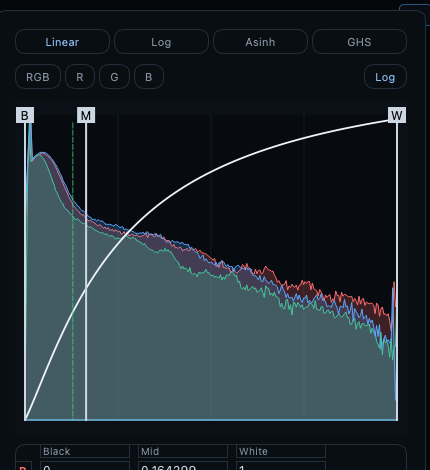
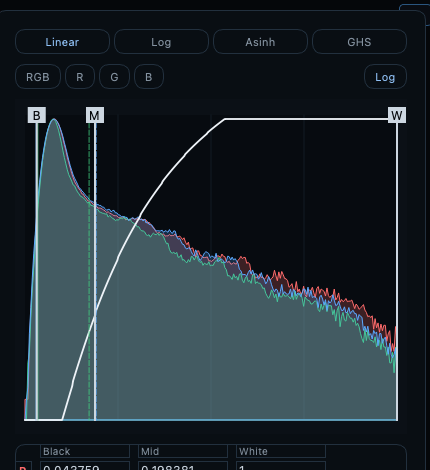
ScriptRunner: non-modal dialog capture — all 10 manual screenshots now exist
Dialog builders (makeRotateDialog/makeCombineDialog) extracted from the
menu slots so ScriptRunner can show() them non-modally: dialog
rotate|combine|preferences|close, dlgclick <text>, dlgcombo <n> <prefix>,
and screenshot <file> dialog. Captures: rotate-dialog (live thumbnail +
WCS North-Up preset), combine-channels (S/H/O roles, SHO preset, live
preview from the M81 channel splits), image-list-hdu (multi-HDU FITS
expanded). Per user feedback the M81 renditions were re-shot with a
tempered stretch (autostf + contrast 0.25, shadows -0.4) — the washed-out
look is gone from overview/readme-ghs/adjust/annotations/split shots.

diff --git a/src/ui/MainWindow.cpp b/src/ui/MainWindow.cpp
@@ -979,33 +979,10 @@ void MainWindow::buildMenusAndToolbar() {
     acts["rotate_cw"]  = image->addAction("Rotate 90\u00b0 CW",  QKeySequence("]"),       this, [this]{ applyTransform(Xform::RotCW); });
     acts["rotate_ccw"] = image->addAction("Rotate 90\u00b0 CCW", QKeySequence("["),       this, [this]{ applyTransform(Xform::RotCCW); });
     acts["rotate_by_angle"] = image->addAction("Rotate by &Angle\u2026", QKeySequence("Ctrl+R"), this, [this]{
-        if (!m_image.isValid()) return;
-        // Small preview of the current display for the dialog's live thumbnail.
-        const QImage thumb = DisplayRenderer::render(m_image, m_model)
-            .scaled(360, 360, Qt::KeepAspectRatio, Qt::SmoothTransformation);
-        // North-up preset: measure the screen direction of celestial north at
-        // the image centre; the rotation that sends it to "up" (screen angle
-        // -90°, with visual-CCW positive) is rel = phi + 90.
-        double northUp = std::numeric_limits<double>::quiet_NaN();
-        if (m_wcs.valid()) {
-            const double cx = (m_image.width() - 1) / 2.0, cy = (m_image.height() - 1) / 2.0;
-            double ra = 0, dec = 0, nx = 0, ny = 0;
-            if (m_wcs.pixelToSky(cx, cy, ra, dec)) {
-                const bool south = dec > 89.0;               // sample away from the pole
-                const double dd = south ? -1.0 / 60.0 : 1.0 / 60.0;
-                if (m_wcs.skyToPixel(ra, dec + dd, nx, ny)) {
-                    double phi = qRadiansToDegrees(std::atan2(ny - cy, nx - cx));
-                    if (south) phi += 180.0;
-                    double t = currentRotationAngle() + phi + 90.0;
-                    while (t > 180.0) t -= 360.0;
-                    while (t < -180.0) t += 360.0;
-                    northUp = t;
-                }
-            }
-        }
-        RotateDialog dlg(thumb, currentRotationAngle(), northUp, this);
-        connect(&dlg, &RotateDialog::applyRequested, this, [this](double a){ pushRotateTo(a); });
-        if (dlg.exec() == QDialog::Accepted) pushRotateTo(dlg.angle());
+        RotateDialog* dlg = makeRotateDialog();
+        if (!dlg) return;
+        if (dlg->exec() == QDialog::Accepted) pushRotateTo(dlg->angle());
+        dlg->deleteLater();
     });
     image->addSeparator();
     acts["flip_horizontal"] = image->addAction("Flip &Horizontal", QKeySequence("Ctrl+H"), this, [this]{ applyTransform(Xform::FlipH); });
@@ -1287,9 +1264,43 @@ void MainWindow::restoreSyntheticEntry(const QString& key, const QString& name,
     m_fileList->setCurrentItem(it);
 }
 
-// Tools ▸ Combine Channels: gather every MONO image in the list (loading those
-// not yet decoded), run the dialog, and add the RGB result to the list.
-void MainWindow::combineChannels() {
+// Rotate-by-angle dialog, configured for the current image: display
+// thumbnail + the north-up preset measured from the WCS. Shared by the menu
+// slot (exec) and ScriptRunner (show). Caller owns the returned dialog.
+RotateDialog* MainWindow::makeRotateDialog() {
+    if (!m_image.isValid()) return nullptr;
+    // Small preview of the current display for the dialog's live thumbnail.
+    const QImage thumb = DisplayRenderer::render(m_image, m_model)
+        .scaled(360, 360, Qt::KeepAspectRatio, Qt::SmoothTransformation);
+    // North-up preset: measure the screen direction of celestial north at
+    // the image centre; the rotation that sends it to "up" (screen angle
+    // -90°, with visual-CCW positive) is rel = phi + 90.
+    double northUp = std::numeric_limits<double>::quiet_NaN();
+    if (m_wcs.valid()) {
+        const double cx = (m_image.width() - 1) / 2.0, cy = (m_image.height() - 1) / 2.0;
+        double ra = 0, dec = 0, nx = 0, ny = 0;
+        if (m_wcs.pixelToSky(cx, cy, ra, dec)) {
+            const bool south = dec > 89.0;               // sample away from the pole
+            const double dd = south ? -1.0 / 60.0 : 1.0 / 60.0;
+            if (m_wcs.skyToPixel(ra, dec + dd, nx, ny)) {
+                double phi = qRadiansToDegrees(std::atan2(ny - cy, nx - cx));
+                if (south) phi += 180.0;
+                double t = currentRotationAngle() + phi + 90.0;
+                while (t > 180.0) t -= 360.0;
+                while (t < -180.0) t += 360.0;
+                northUp = t;
+            }
+        }
+    }
+    auto* dlg = new RotateDialog(thumb, currentRotationAngle(), northUp, this);
+    connect(dlg, &RotateDialog::applyRequested, this, [this](double a){ pushRotateTo(a); });
+    return dlg;
+}
+
+// Combine-channels dialog over every MONO image in the list (loading those
+// not yet decoded). Shared by the menu slot (exec) and ScriptRunner (show).
+// Caller owns the returned dialog; null (+ *whyNot) when under two monos.
+CombineDialog* MainWindow::makeCombineDialog(QString* whyNot) {
     std::vector<CombineDialog::Source> mono;
     for (int i = 0; i < m_fileList->count(); ++i) {
         QListWidgetItem* item = m_fileList->item(i);
@@ -1331,11 +1342,21 @@ void MainWindow::combineChannels() {
         }
     }
     if (mono.size() < 2) {
-        QMessageBox::information(this, "Combine Channels",
+        if (whyNot) *whyNot = QStringLiteral(
             "Load at least two single-channel (mono) images into the list first.");
+        return nullptr;
+    }
+    return new CombineDialog(std::move(mono), this);
+}
+
+void MainWindow::combineChannels() {
+    QString whyNot;
+    CombineDialog* dlgp = makeCombineDialog(&whyNot);
+    if (!dlgp) {
+        QMessageBox::information(this, "Combine Channels", whyNot);
         return;
     }
-    CombineDialog dlg(std::move(mono), this);
+    CombineDialog& dlg = *dlgp;
     if (dlg.exec() == QDialog::Accepted && dlg.hasResult()) {
         // Land the result in an empty view when one exists (multi-view HOO/SHO
         // workflow); otherwise it replaces the active view's image.
@@ -1353,6 +1374,7 @@ void MainWindow::combineChannels() {
             m_model.setFn(StretchFn::Linear);
         }
     }
+    dlgp->deleteLater();
 }
 
 // Tools ▸ Combine Stars: gather the RGB (or mono) images in the list, run the

diff --git a/src/ui/ScriptRunner.cpp b/src/ui/ScriptRunner.cpp
@@ -1,11 +1,15 @@
 #include "ui/ScriptRunner.h"
 #include "ui/MainWindow.h"
 #include "ui/ViewGrid.h"
+#include "ui/RotateDialog.h"
+#include "ui/CombineDialog.h"
+#include "ui/PreferencesDialog.h"
 #include "render/DisplayRenderer.h"
 #include "io/ImageWriter.h"
 #include <QAction>
 #include <QCheckBox>
 #include <QComboBox>
+#include <QPushButton>
 #include <QCoreApplication>
 #include <QElapsedTimer>
 #include <QEventLoop>
@@ -217,10 +221,69 @@ bool ScriptRunner::execute(const QString& line, QString& err) {
         if (wantPanels == m_w->m_imageOnly) m_w->toggleImageOnly();
         return true;
     }
+    if (cmd == QLatin1String("dialog")) {
+        // Open a dialog NON-modally for scripted captures (exec() would block
+        // the script), or close the one that's open.
+        if (!needArgs(1)) return false;
+        const QString which = t[1].toLower();
+        if (which == QLatin1String("close")) {
+            if (m_dialog) m_dialog->deleteLater();
+            m_dialog.clear();
+            return true;
+        }
+        if (m_dialog) { err = "a dialog is already open (dialog close first)"; return false; }
+        QDialog* d = nullptr;
+        if      (which == QLatin1String("rotate"))      d = m_w->makeRotateDialog();
+        else if (which == QLatin1String("combine")) {
+            QString why;
+            d = m_w->makeCombineDialog(&why);
+            if (!d) { err = why; return false; }
+        }
+        else if (which == QLatin1String("preferences")) d = new PreferencesDialog(m_w);
+        else { err = "dialog rotate|combine|preferences|close"; return false; }
+        if (!d) { err = "cannot open dialog (no image?)"; return false; }
+        m_dialog = d;
+        d->show();
+        return true;
+    }
+    if (cmd == QLatin1String("dlgclick")) {
+        // Click a button in the open dialog by its visible text (e.g. a
+        // Combine preset): dlgclick SHO
+        if (!needArgs(1)) return false;
+        if (!m_dialog) { err = "no dialog open"; return false; }
+        const QString want = QStringList(t.mid(1)).join(QLatin1Char(' '));
+        const auto buttons = m_dialog->findChildren<QPushButton*>();
+        for (QPushButton* b : buttons)
+            if (QString(b->text()).remove(QLatin1Char('&')) == want) { b->click(); return true; }
+        err = "no button \"" + want + "\" in the dialog";
+        return false;
+    }
+    if (cmd == QLatin1String("dlgcombo")) {
+        // Set the n-th combo box (creation order, 0-based) of the open dialog
+        // to the entry whose text starts with the given prefix:
+        //   dlgcombo 0 S      -> "S (SII)"
+        if (!needArgs(2)) return false;
+        if (!m_dialog) { err = "no dialog open"; return false; }
+        const auto combos = m_dialog->findChildren<QComboBox*>();
+        const int n = t[1].toInt();
+        if (n < 0 || n >= combos.size()) {
+            err = QStringLiteral("combo index out of range (dialog has %1)").arg(combos.size());
+            return false;
+        }
+        const QString want = QStringList(t.mid(2)).join(QLatin1Char(' ')).toLower();
+        for (int i = 0; i < combos[n]->count(); ++i)
+            if (combos[n]->itemText(i).toLower().startsWith(want)) {
+                combos[n]->setCurrentIndex(i);
+                return true;
+            }
+        err = "no entry starting with \"" + want + "\"";
+        return false;
+    }
     if (cmd == QLatin1String("screenshot")) {
-        // Render the whole main window (widget tree, docks and all) to a PNG.
-        // Works on the offscreen platform too — the basis for reproducible
-        // documentation captures.
+        // Render the whole main window (widget tree, docks and all) — or,
+        // with the `dialog` argument, the dialog opened by the `dialog`
+        // command — to a PNG. Works on the offscreen platform too: the basis
+        // for reproducible documentation captures.
         if (!needArgs(1)) return false;
         // Drain the async display pipeline first: a grab taken while a
         // re-render is in flight captures the previous frame.
@@ -228,7 +291,12 @@ bool ScriptRunner::execute(const QString& line, QString& err) {
         while (et.elapsed() < 15000 && m_w->m_renderWatcher &&
                (m_w->m_renderWatcher->isRunning() || m_w->m_renderPending))
             QCoreApplication::processEvents(QEventLoop::AllEvents, 50);
-        const QPixmap px = m_w->grab();
+        QWidget* target = m_w;
+        if (t.size() > 2 && t[2].toLower() == QLatin1String("dialog")) {
+            if (!m_dialog) { err = "no dialog open"; return false; }
+            target = m_dialog;
+        }
+        const QPixmap px = target->grab();
         if (px.isNull() || !px.save(t[1])) { err = "could not write " + t[1]; return false; }
         return true;
     }

diff --git a/src/ui/ScriptRunner.h b/src/ui/ScriptRunner.h
@@ -27,11 +27,22 @@
 //   assert pixel <x> <y> <v> [tol]            mono (raw data value)
 //   assert pixel <x> <y> <r> <g> <b> [tol]    rgb
 //   assert range <min> <max> [tol]            channel-0 data extremes
+//   waitloaded [ms]             block until image + stats ready (default 10s)
+//   screenshot <path> [dialog]  whole window (or the open dialog) to PNG,
+//                               after the async render pipeline drains
+//   cmap <name>                 gray|heat|viridis|magma|inferno|cividis
+//   cmapmod invert|split on|off [t]
+//   panels on|off               the Image Only toggle
+//   action <name>               trigger a menu action by registry name
+//   dialog rotate|combine|preferences|close    open non-modally / close
 //   sleep <ms>
 //   quit
 //
 #include <QObject>
+#include <QPointer>
 #include <QStringList>
+
+class QDialog;
 
 namespace astro {
 
@@ -54,6 +65,7 @@ private:
     MainWindow* m_w;
     QString m_path;
     QStringList m_lines;
+    QPointer<QDialog> m_dialog;         // dialog opened by the `dialog` command
     int m_pc = 0;                       // program counter (line index)
     int m_failures = 0;
     int m_delayMs = 30;                 // between commands: lets renders settle

diff --git a/src/ui/MainWindow.h b/src/ui/MainWindow.h
@@ -74,6 +74,10 @@ private slots:
     void pasteStretchToAll(bool normalized);        // apply to every list row
     void onListContextMenu(const QPoint& pos);      // right-click on the image list
     void combineChannels();
+    // Dialog builders shared by the menu slots (exec) and ScriptRunner
+    // (show, for scripted captures). Null when preconditions fail.
+    class RotateDialog*  makeRotateDialog();
+    class CombineDialog* makeCombineDialog(QString* whyNot = nullptr);
     void combineStars();                  // screen-blend starless + stars-only                         // Tools ▸ Combine Channels…
 
 public:

diff --git a/docs/MANUAL.md b/docs/MANUAL.md
@@ -333,6 +333,11 @@ nebulascope [options] [files...]
                          action <name> (trigger a menu action by its
                          shortcut-registry name, e.g. toggle_grid; avoid
                          modal dialogs — they block the script),
+                         dialog rotate|combine|preferences|close (open a
+                         dialog NON-modally for scripted captures),
+                         dlgclick <button text>, dlgcombo <n> <prefix>
+                         (drive the open dialog's buttons / combos),
+                         screenshot <file> dialog (capture the open dialog),
                          quit — one per line, #-comments; see tests/smoke.nsc.
   -h, --help             This help.
 ```
